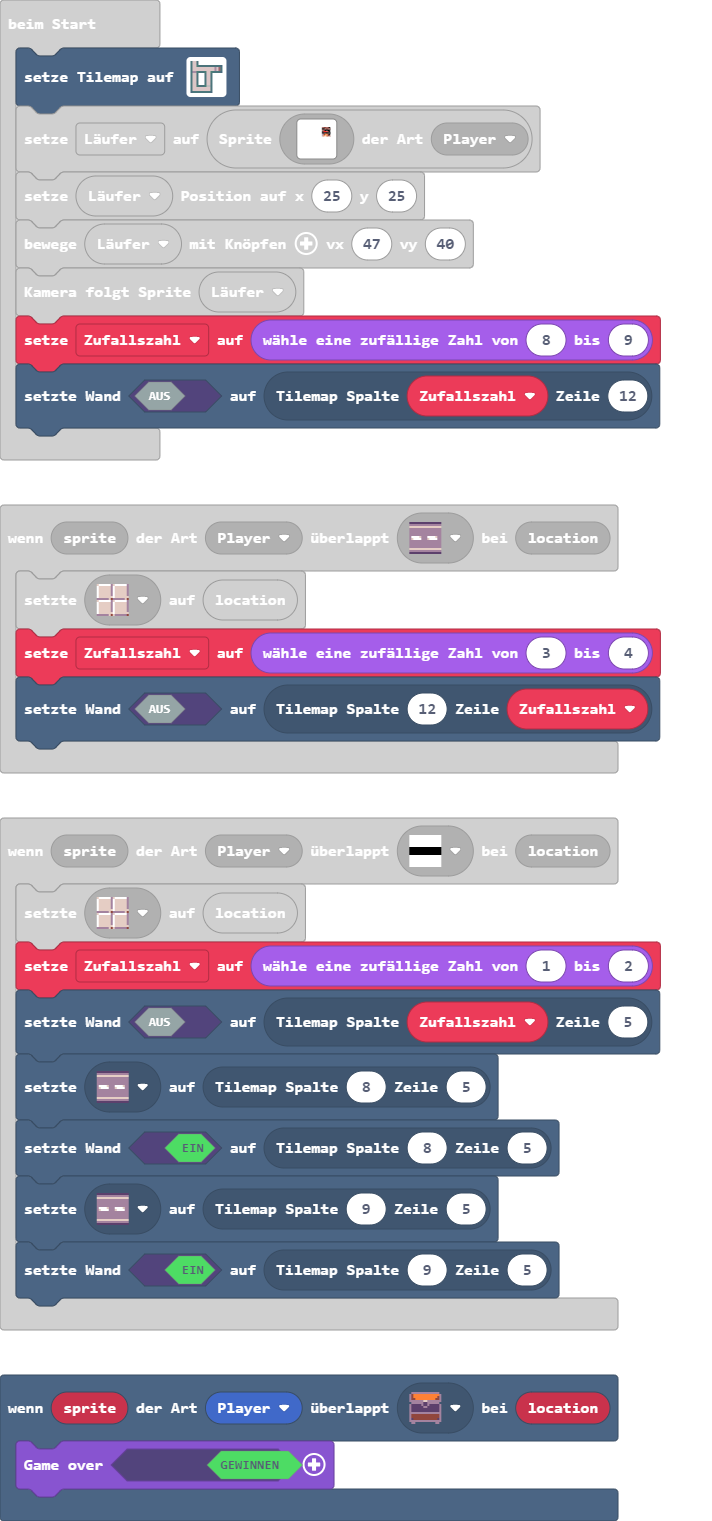
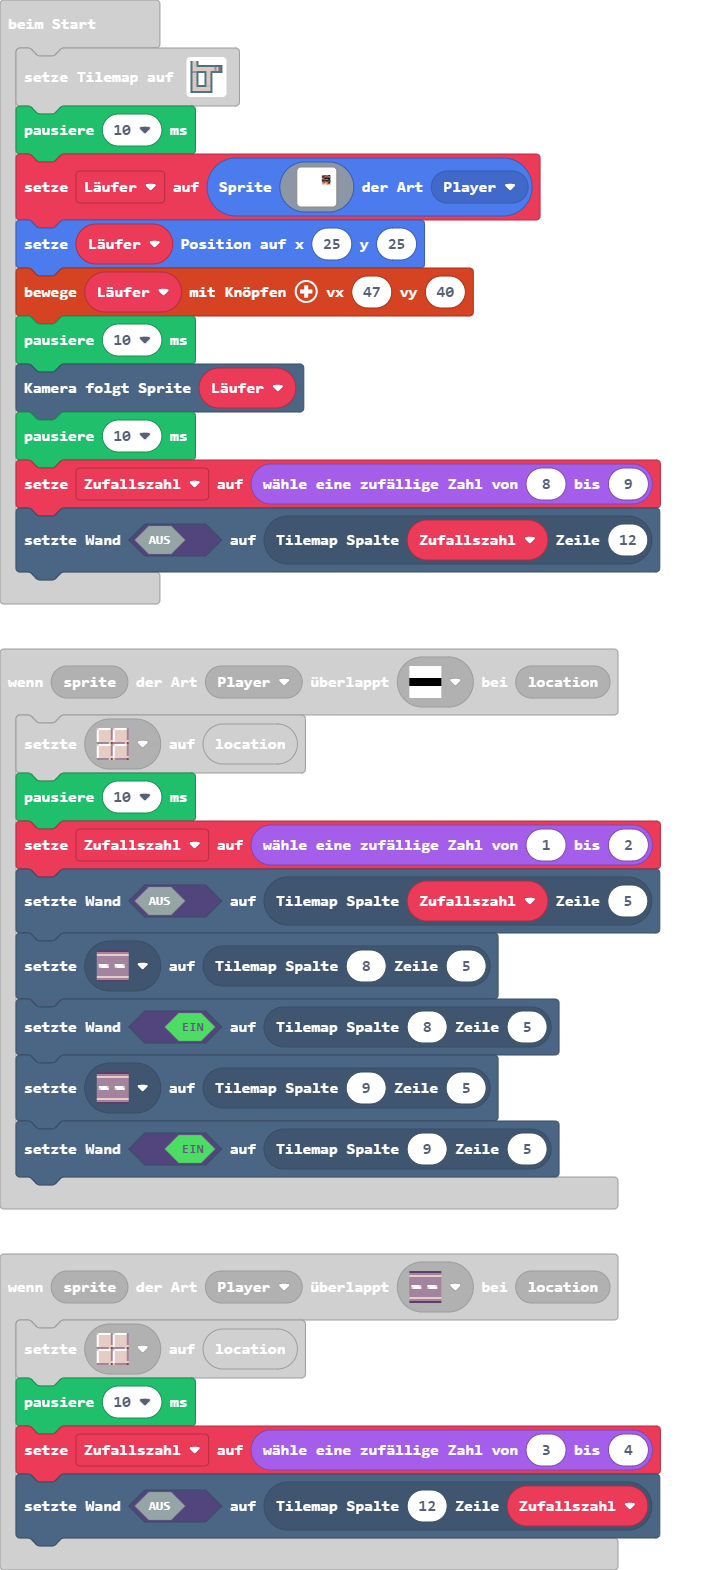
Aktualisiere main.blocks, main.ts

diff --git a/main.ts b/main.ts
@@ -1,5 +1,6 @@
 scene.onOverlapTile(SpriteKind.Player, myTiles.tile2, function (sprite, location) {
     tiles.setTileAt(location, sprites.dungeon.floorLight0)
+    pause(10)
     Zufallszahl = randint(1, 2)
     tiles.setWallAt(tiles.getTileLocation(Zufallszahl, 5), false)
     tiles.setTileAt(tiles.getTileLocation(8, 5), sprites.vehicle.roadHorizontal)
@@ -12,6 +13,7 @@ scene.onOverlapTile(SpriteKind.Player, sprites.vehicle.roadVertical, function (s
 })
 scene.onOverlapTile(SpriteKind.Player, sprites.vehicle.roadHorizontal, function (sprite, location) {
     tiles.setTileAt(location, sprites.dungeon.floorLight0)
+    pause(10)
     Zufallszahl = randint(3, 4)
     tiles.setWallAt(tiles.getTileLocation(12, Zufallszahl), false)
 })
@@ -37,6 +39,7 @@ tiles.setTilemap(tiles.createTilemap(hex`10001000080a0a0300000000000000000000000
     2 . . 2 . . . 2 . . 2 . . . . . 
     2 2 2 2 2 2 2 2 2 2 2 . . . . . 
     `, [myTiles.transparency16,sprites.dungeon.greenOuterWest0,sprites.dungeon.greenOuterSouthEast,sprites.dungeon.greenOuterWest1,sprites.dungeon.greenOuterSouth0,sprites.dungeon.greenOuterSouthWest,sprites.dungeon.greenOuterNorthWest,sprites.dungeon.greenOuterNorthEast,sprites.dungeon.greenOuterEast0,sprites.dungeon.greenOuterNorth0,sprites.dungeon.floorLight0,sprites.vehicle.roadHorizontal,sprites.vehicle.roadVertical,myTiles.tile2,sprites.dungeon.greenOuterNorth1,sprites.dungeon.chestOpen,sprites.dungeon.greenInnerNorthEast,sprites.dungeon.greenInnerSouthEast,sprites.dungeon.greenInnerSouthWest], TileScale.Sixteen))
+pause(10)
 let Läufer = sprites.create(img`
     ........................
     ........................
@@ -65,6 +68,8 @@ let Läufer = sprites.create(img`
     `, SpriteKind.Player)
 Läufer.setPosition(25, 25)
 controller.moveSprite(Läufer, 47, 40)
+pause(10)
 scene.cameraFollowSprite(Läufer)
+pause(10)
 Zufallszahl = randint(8, 9)
 tiles.setWallAt(tiles.getTileLocation(Zufallszahl, 12), false)
